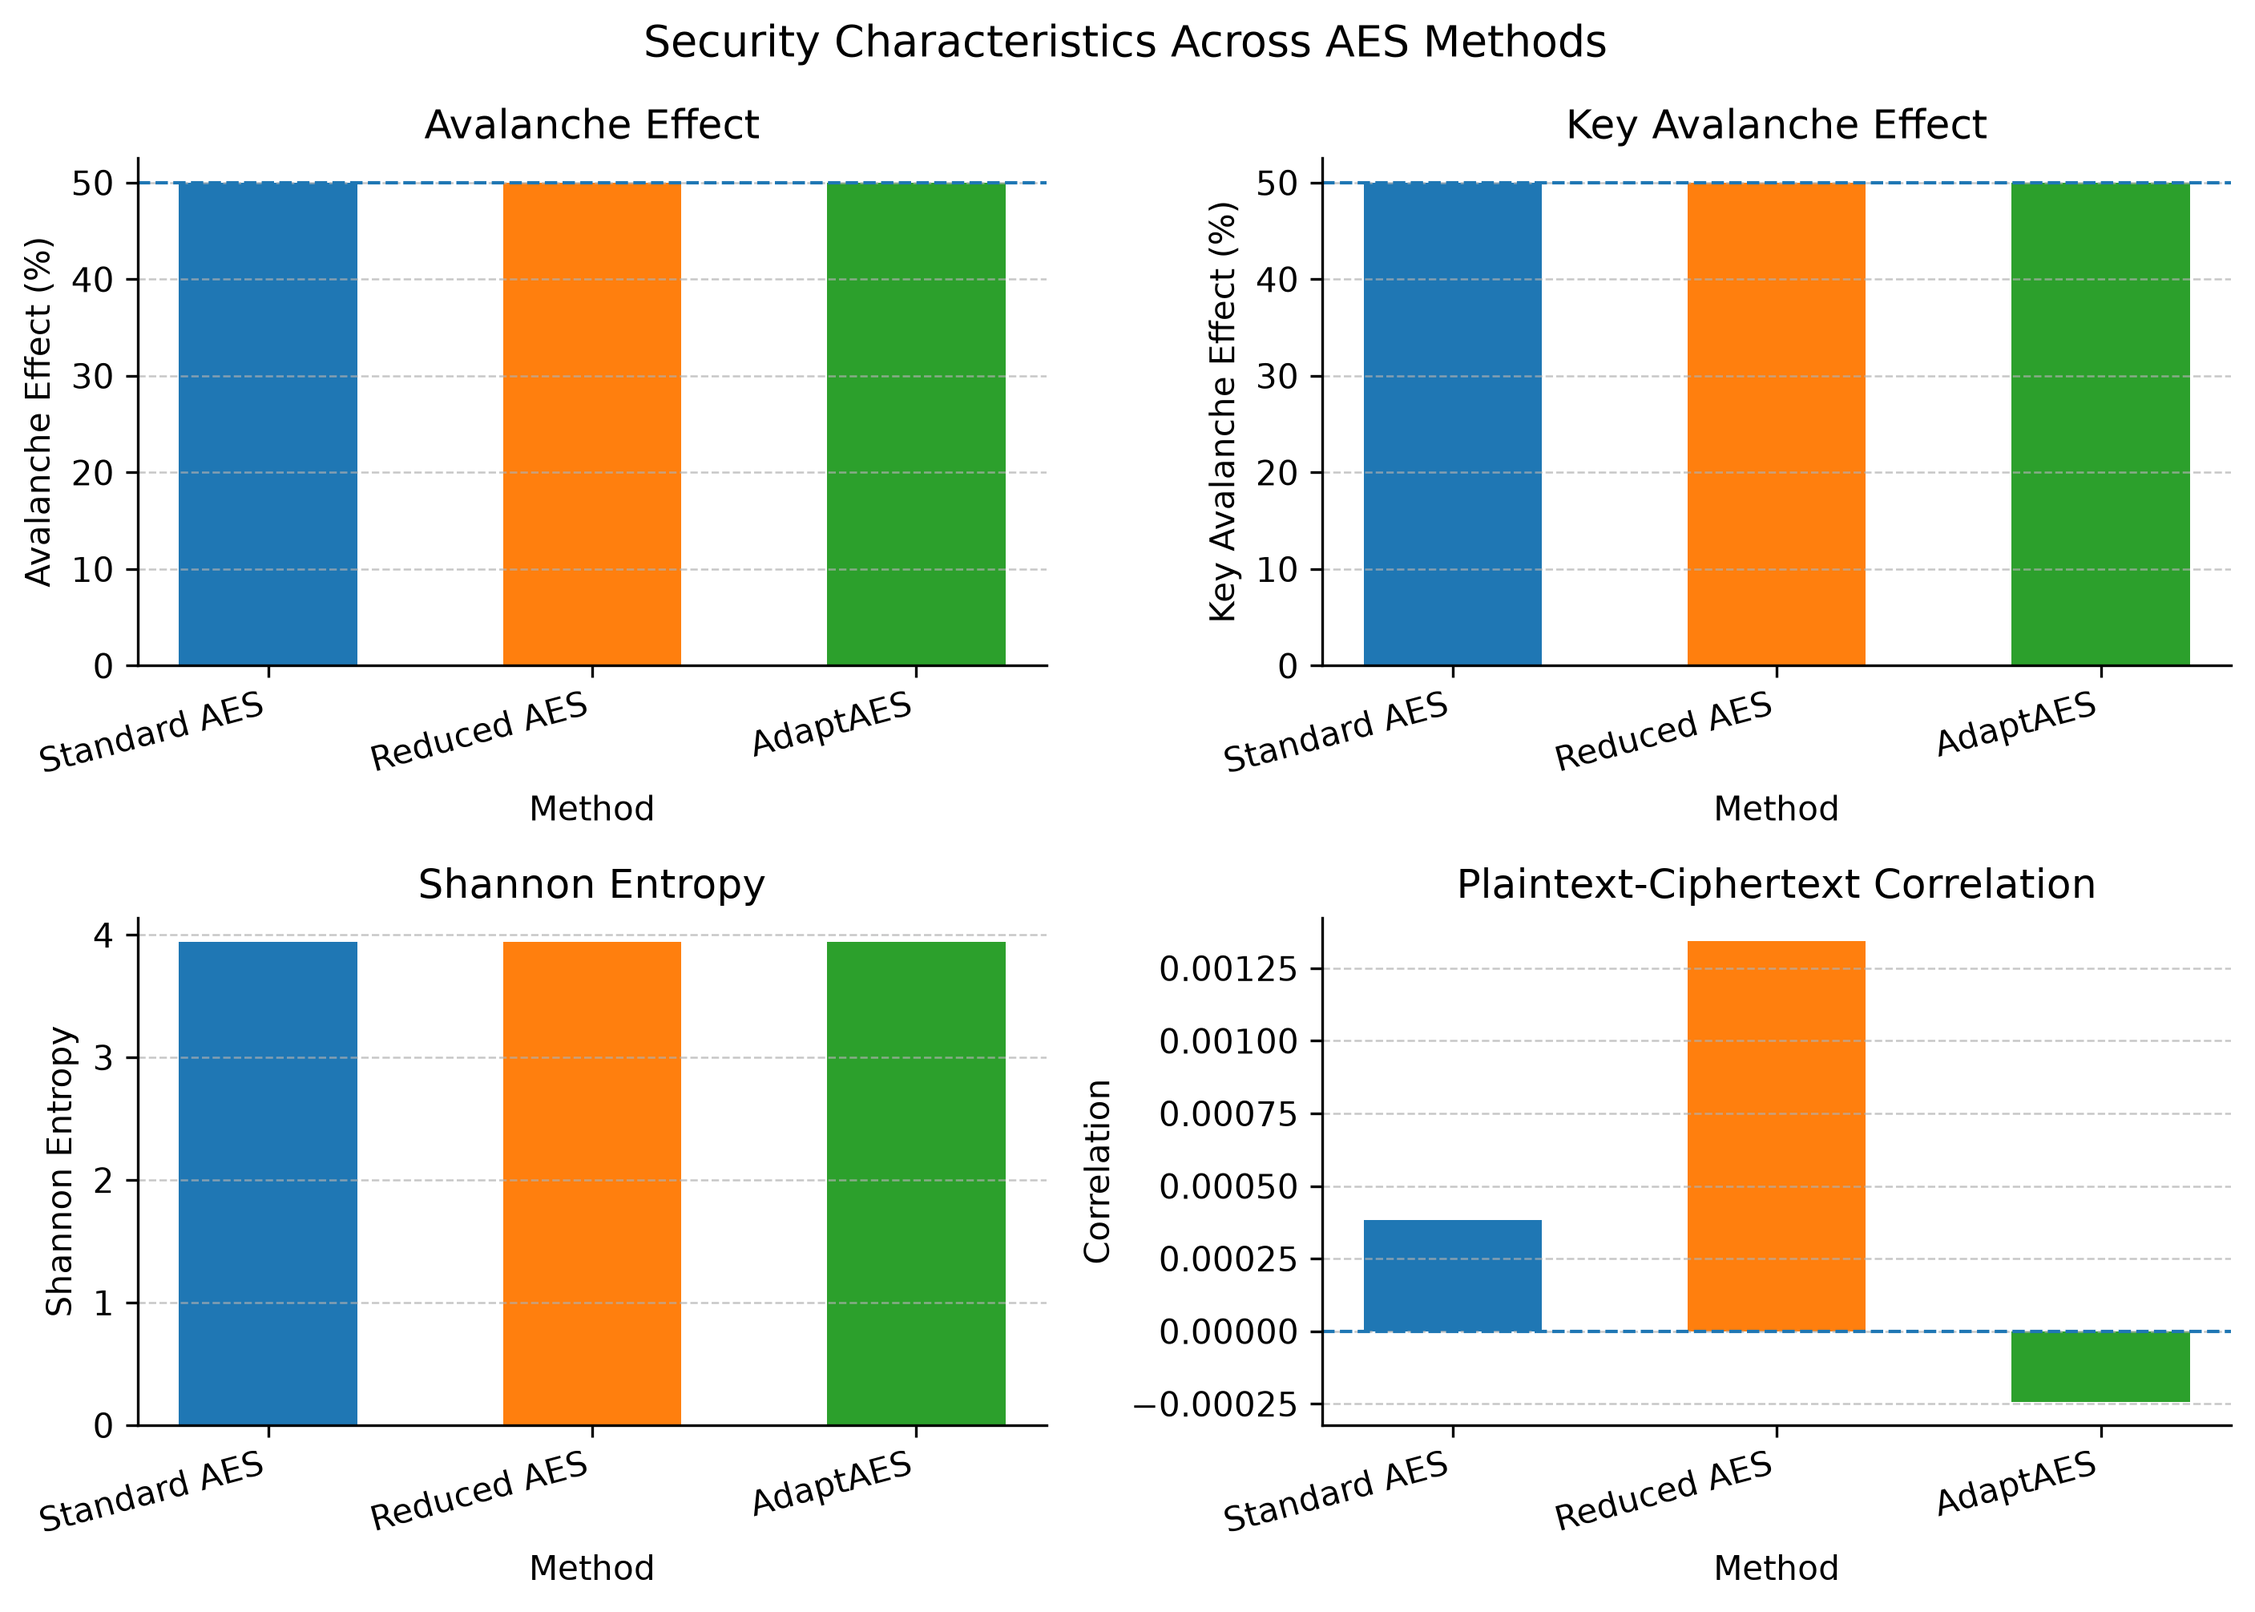
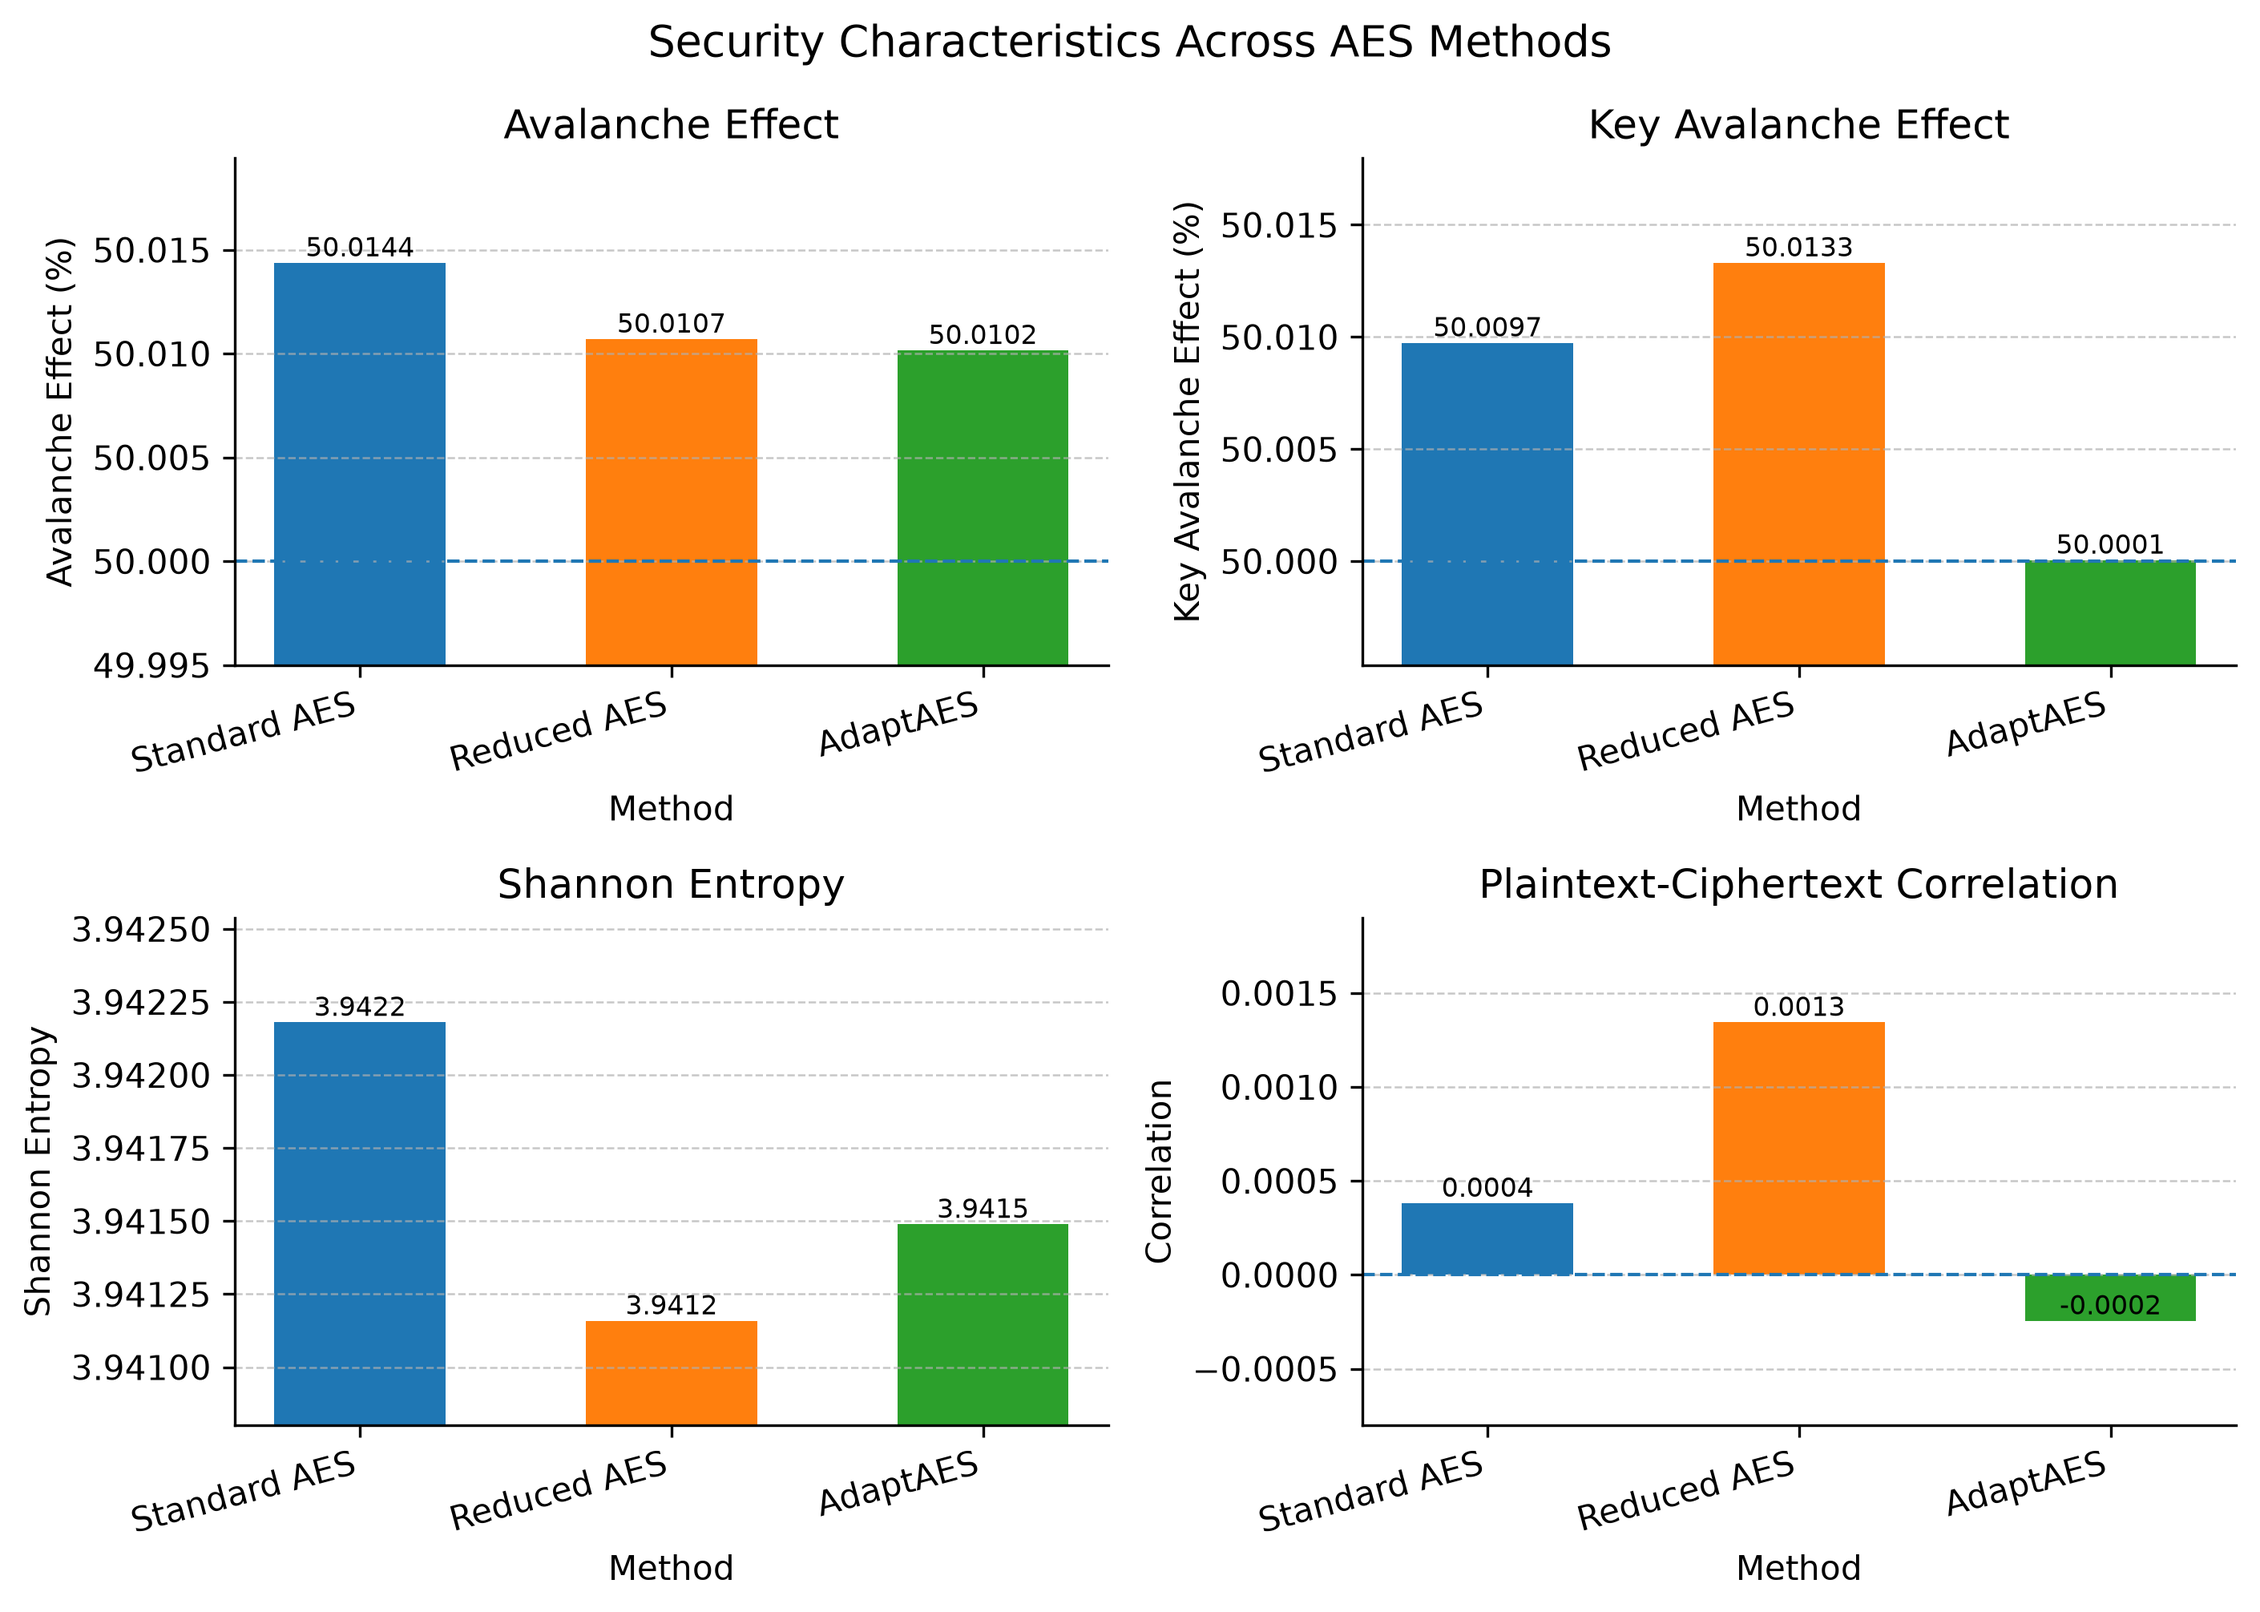
Refine comparison graph visibility

diff --git a/scripts/generate_graphs.py b/scripts/generate_graphs.py
@@ -62,6 +62,19 @@ def style_axes(ax) -> None:
     ax.spines["right"].set_visible(False)
 
 
+def set_zoomed_ylim(ax, values: list[float], reference: float | None = None) -> None:
+    all_values = list(values)
+    if reference is not None:
+        all_values.append(reference)
+    minimum = min(all_values)
+    maximum = max(all_values)
+    span = maximum - minimum
+    if span == 0:
+        span = abs(maximum) * 0.01 or 0.01
+    padding = span * 0.35
+    ax.set_ylim(minimum - padding, maximum + padding)
+
+
 def save(fig, path: Path) -> None:
     fig.tight_layout()
     fig.savefig(path, dpi=300, bbox_inches="tight")
@@ -177,8 +190,10 @@ def graph5_security_metrics(rows: list[dict[str, str]], out_dir: Path) -> None:
         values = [by_mode[mode][column] for mode in MODE_ORDER]
         for index, (mode, value) in enumerate(zip(MODE_ORDER, values)):
             ax.bar(index, value, width=0.55, label=MODE_LABELS[mode])
+            ax.text(index, value, f"{value:.4f}", ha="center", va="bottom", fontsize=8)
         if reference is not None:
             ax.axhline(reference, linestyle="--", linewidth=1)
+        set_zoomed_ylim(ax, values, reference)
         ax.set_xticks(x)
         ax.set_xticklabels([MODE_LABELS[mode] for mode in MODE_ORDER], rotation=15, ha="right")
         ax.set_xlabel("Method")
@@ -209,7 +224,6 @@ def main() -> None:
     args = parser.parse_args()
 
     performance_path = args.analysis_dir / "bucket_security_performance_summary.csv"
-    security_path = args.analysis_dir / "roundwise_security_summary.csv"
     out_dir = args.out_dir
     out_dir.mkdir(parents=True, exist_ok=True)
 
@@ -255,9 +269,9 @@ def main() -> None:
         out_dir,
         column="time_reduction_percent_vs_aes10",
         ylabel="Encryption Time Reduction vs AES-10 (%)",
-        title="AdaptAES Encryption Time Reduction Relative to Standard AES-10",
+        title="Encryption Time Reduction Relative to Standard AES-10",
         filename="graph4_encryption_reduction.png",
-        modes=["adaptaes"],
+        modes=["fixed_reduced_aes_4", "adaptaes"],
     )
     graph5_security_metrics(performance_rows, out_dir)
 
